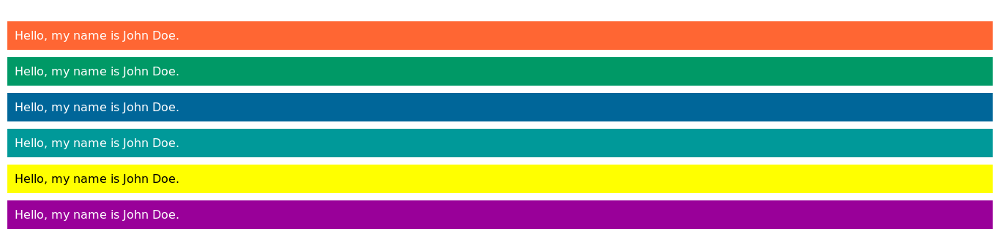
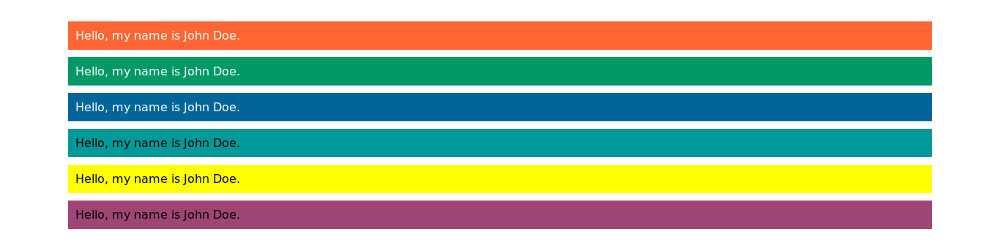
Rename project

Changed region(s): [[0.0, 0.084, 1.0, 0.924]]

diff --git a/css/minimalizr.css b/css/minimalizr.css
@@ -1,0 +1,1 @@
+*{box-sizing:border-box;margin:0;padding:0}html{scroll-behavior:smooth}body{font-family:sans-serif;font-size:1rem}::selection{background-color:#069;color:#fff}.container{width:1200px;max-width:100%;margin:0 auto;padding:0 10px}.container-fluid{width:100%}.row{display:grid;grid-template-columns:repeat(12, 1fr)}.col-md-1{grid-column:span 1}.col-md-2{grid-column:span 2}.col-md-3{grid-column:span 3}.col-md-4{grid-column:span 4}.col-md-5{grid-column:span 5}.col-md-6{grid-column:span 6}.col-md-7{grid-column:span 7}.col-md-8{grid-column:span 8}.col-md-9{grid-column:span 9}.col-md-10{grid-column:span 10}.col-md-11{grid-column:span 11}.col-md-12{grid-column:span 12}@media screen and (max-width: 768px){.col-sm-1{grid-column:span 1}.col-sm-2{grid-column:span 2}.col-sm-3{grid-column:span 3}.col-sm-4{grid-column:span 4}.col-sm-5{grid-column:span 5}.col-sm-6{grid-column:span 6}.col-sm-7{grid-column:span 7}.col-sm-8{grid-column:span 8}.col-sm-9{grid-column:span 9}.col-sm-10{grid-column:span 10}.col-sm-11{grid-column:span 11}.col-sm-12{grid-column:span 12}}.text-white{color:#fff}.text-red{color:#f63}.text-green{color:#096}.text-blue{color:#069}.text-cyan{color:#099}.text-yellow{color:#ff0}.text-magenta{color:#9f4576}.text-gray{color:#888}.text-light-gray{color:#bbb}.text-black{color:#000}.bg-white{background-color:#fff}.bg-red{background-color:#f63}.bg-green{background-color:#096}.bg-blue{background-color:#069}.bg-cyan{background-color:#099}.bg-yellow{background-color:#ff0}.bg-magenta{background-color:#9f4576}.bg-gray{background-color:#888}.bg-light-gray{background-color:#bbb}.bg-black{background-color:#000}.bordered{border:1px solid}.padded{padding:10px}.underline{text-decoration:underline}.text-left{text-align:left}.text-center{text-align:center}.text-right{text-align:right}.text-justify{text-align:justify}.truncate{white-space:nowrap;overflow:hidden;text-overflow:ellipsis}.drop-cap::first-letter{font-size:xx-large}@media screen and (max-width: 768px){.hide-on-sm{display:none}}h1,h2,h3,h4,h5,h6{padding:10px 0}p{padding:10px 0}a{color:#069;text-decoration:underline}a:active,a:visited{color:#9f4576}strong{font-weight:bold}em{font-style:italic}mark{background-color:#ff0}del{text-decoration:line-through}sub{font-size:smaller;vertical-align:sub}sup{font-size:smaller;vertical-align:super}q::before{content:'"'}q::after{content:'"'}blockquote{padding:10px 0}blockquote footer{text-align:right}cite{font-style:italic}abbr[title]{text-decoration:underline dotted}pre.code,code,kbd{padding:2px 4px;border-radius:4px;font-family:monospace}kbd{background-color:#000;color:#fff}code{background-color:#bbb}pre.code{background-color:#bbb;padding:10px}ul,ol{list-style-position:inside}img{max-width:100%}figure figcaption,footer{font-size:smaller}.table-responsive{overflow-x:auto}table{border-collapse:collapse;margin:10px 0;table-layout:fixed}table,table th,table td{border:1px solid #000}table th{font-weight:bold}table th,table td{padding:10px;text-align:left}form{display:grid;grid-template-columns:1fr;grid-gap:10px;margin:10px 0}form label{display:flex;align-items:flex-start}form label span{user-select:none;padding:5px;width:150px}form label.form-checkbox span{cursor:pointer;width:auto}form label input,form label textarea,form label select,form label button{font-size:.9rem}form label input,form label textarea,form label select{background-color:#fff;border:1px solid #888;font-family:sans-serif;outline:none;padding:5px;flex:1}form label input:focus,form label textarea:focus,form label select:focus{border-color:#069}form label input:focus:invalid,form label textarea:focus:invalid,form label select:focus:invalid{border-color:#f63}form label textarea{min-height:50px;max-height:200px;resize:vertical}form label input[type=checkbox]{cursor:pointer;flex:0;align-self:center}form button{width:fit-content}button{background-color:#888;border:1px solid #888;color:#fff;cursor:pointer;outline:none;padding:5px}button:enabled:hover{opacity:.8}button[type=submit]{background-color:#069;border-color:#069;color:#fff}button[disabled]{background-color:#bbb;border-color:#bbb;color:#fff;cursor:not-allowed}@keyframes spin{0%{transform:rotate(0deg)}100%{transform:rotate(360deg)}}.spinner{border:5px solid #bbb;border-top:5px solid #069;border-radius:50%;height:60px;width:60px;animation-name:spin;animation-duration:1s;animation-timing-function:linear;animation-iteration-count:infinite}form .spinner{justify-self:center}/*# sourceMappingURL=minimalizr.css.map */

diff --git a/sass/main.scss b/sass/main.scss
@@ -7,7 +7,7 @@ $colors: (
 	'blue': #069,
 	'cyan': #099,
 	'yellow': #ff0,
-	'magenta': #909,
+	'magenta': #9f4576,
 	'gray': #888,
 	'light-gray': #bbb,
 	'black': #000

diff --git a/README.md b/README.md
@@ -12,11 +12,11 @@ Lightweight CSS boilerplate built with Sass for easier configuration of grid, co
 
 ## Usage
 
-Just download [minimalist.css](css/minimalist.css) and include it in your HTML file:
+Just download [minimalizr.css](css/minimalizr.css) and include it in your HTML file:
 
 ```
 <meta name="viewport" content="width=device-width, initial-scale=1">
-<link rel="stylesheet" href="minimalist.css">
+<link rel="stylesheet" href="css/minimalizr.css">
 ```
 
 ## Documentation
